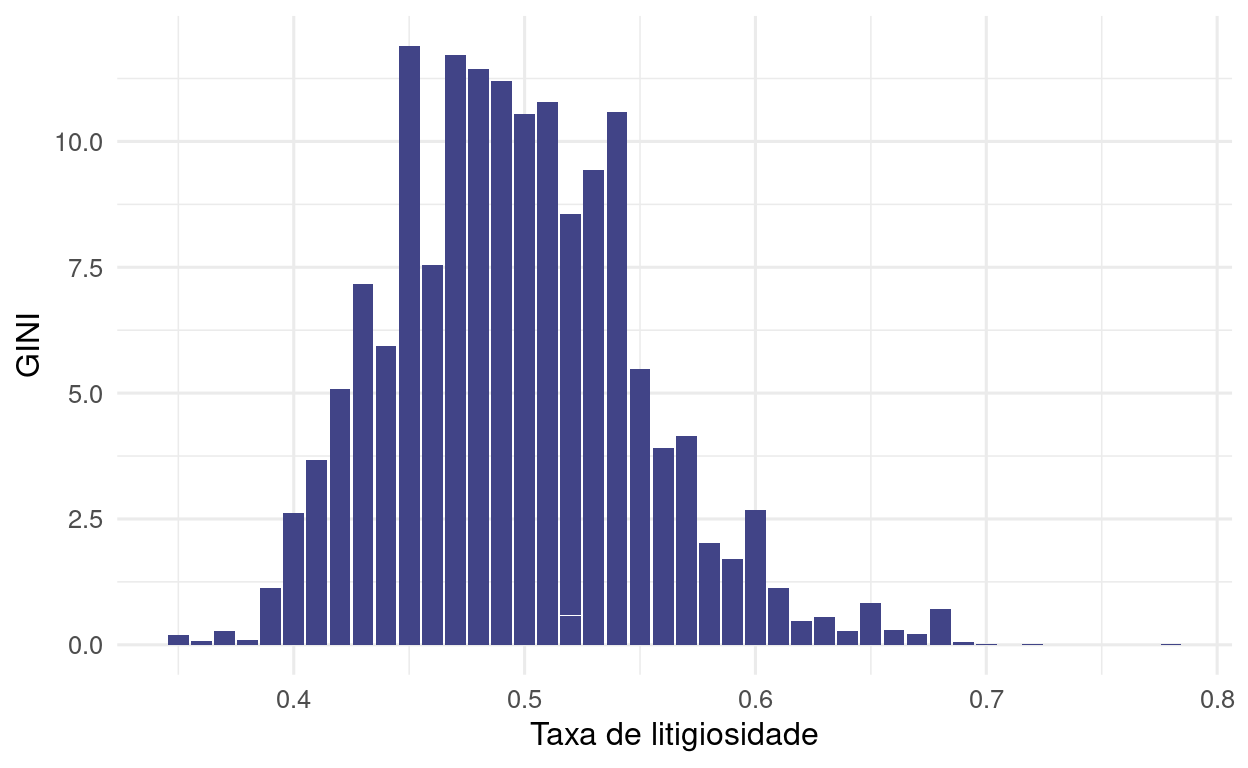
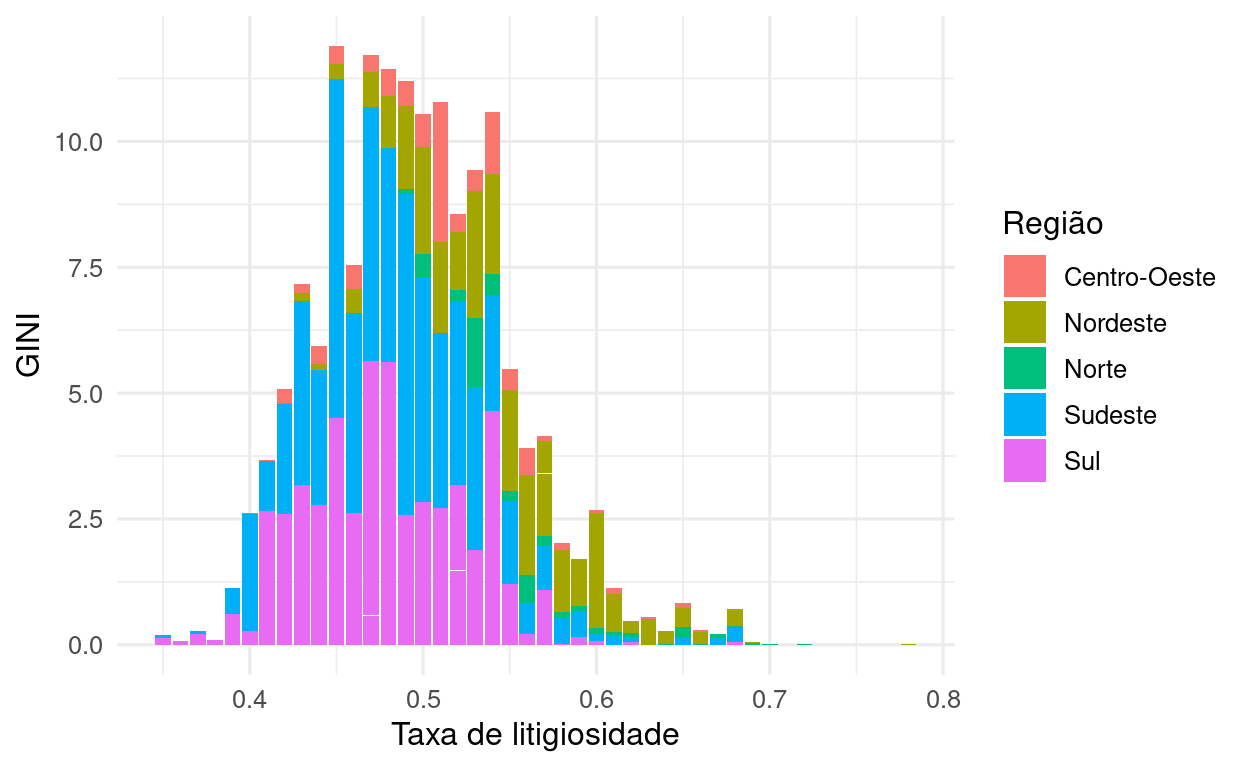
melhora a parte de visualização

diff --git a/_posts/2021-01-15-litigiosidade/litigiosidade.html b/_posts/2021-01-15-litigiosidade/litigiosidade.html
@@ -1466,7 +1466,7 @@ code span.wa { color: #5e5e5e; font-style: italic; } /* Warning */
 </div>
 <h2 id="introdução">Introdução</h2>
 <h3 id="definição-do-problema">Definição do problema</h3>
-<p>Quanto mais desenvolvimento, mais complexa é a sociedade, mais contratos são celebrados. Isso deve gerar maior litigância. Portanto, existe uma relação entre desenvolvimento e litigiosidade</p>
+<p>Quanto mais desenvolvimento, mais complexa é a sociedade, mais contratos são celebrados. Isso deve gerar maior litigância. Portanto, existe uma relação entre desenvolvimento e litigiosidade. No texto fazemos uma análise sobre o volume de processos em razão as regiões do Brasil.</p>
 <h2 id="metodologia">Metodologia</h2>
 <h3 id="origem-das-bases-de-dados">Origem das bases de dados</h3>
 <h3 id="descrição-das-bases">Descrição das bases</h3>

diff --git a/docs/posts/2021-01-15-litigiosidade/index.html b/docs/posts/2021-01-15-litigiosidade/index.html
@@ -2144,7 +2144,7 @@ gtag('config', 'UA-182605574-1');
 </div>
 <h2 id="introdução">Introdução</h2>
 <h3 id="definição-do-problema">Definição do problema</h3>
-<p>Quanto mais desenvolvimento, mais complexa é a sociedade, mais contratos são celebrados. Isso deve gerar maior litigância. Portanto, existe uma relação entre desenvolvimento e litigiosidade</p>
+<p>Quanto mais desenvolvimento, mais complexa é a sociedade, mais contratos são celebrados. Isso deve gerar maior litigância. Portanto, existe uma relação entre desenvolvimento e litigiosidade. No texto fazemos uma análise sobre o volume de processos em razão as regiões do Brasil.</p>
 <h2 id="metodologia">Metodologia</h2>
 <h3 id="origem-das-bases-de-dados">Origem das bases de dados</h3>
 <h3 id="descrição-das-bases">Descrição das bases</h3>
